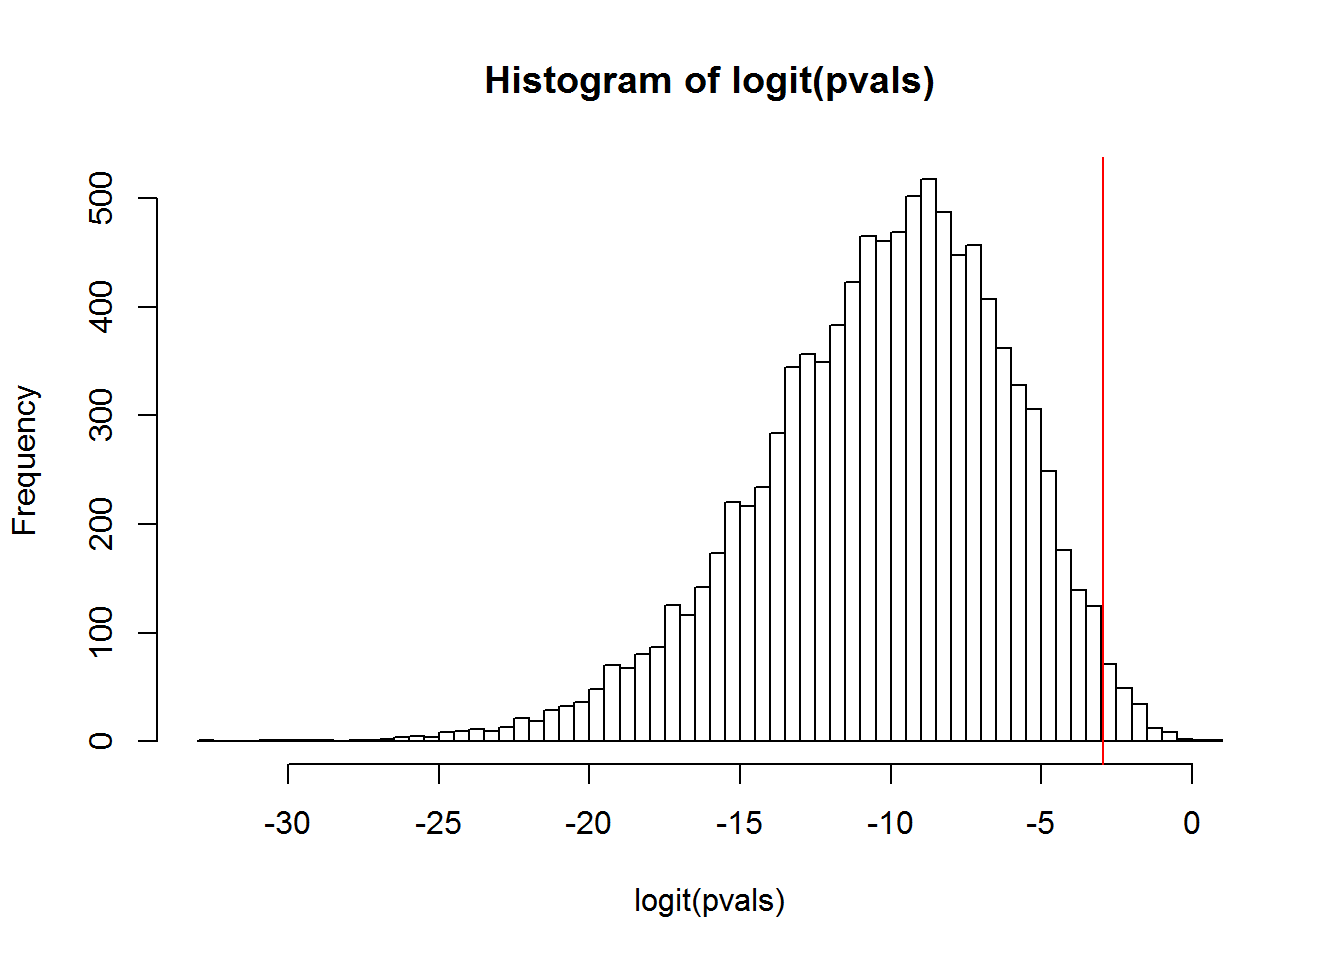
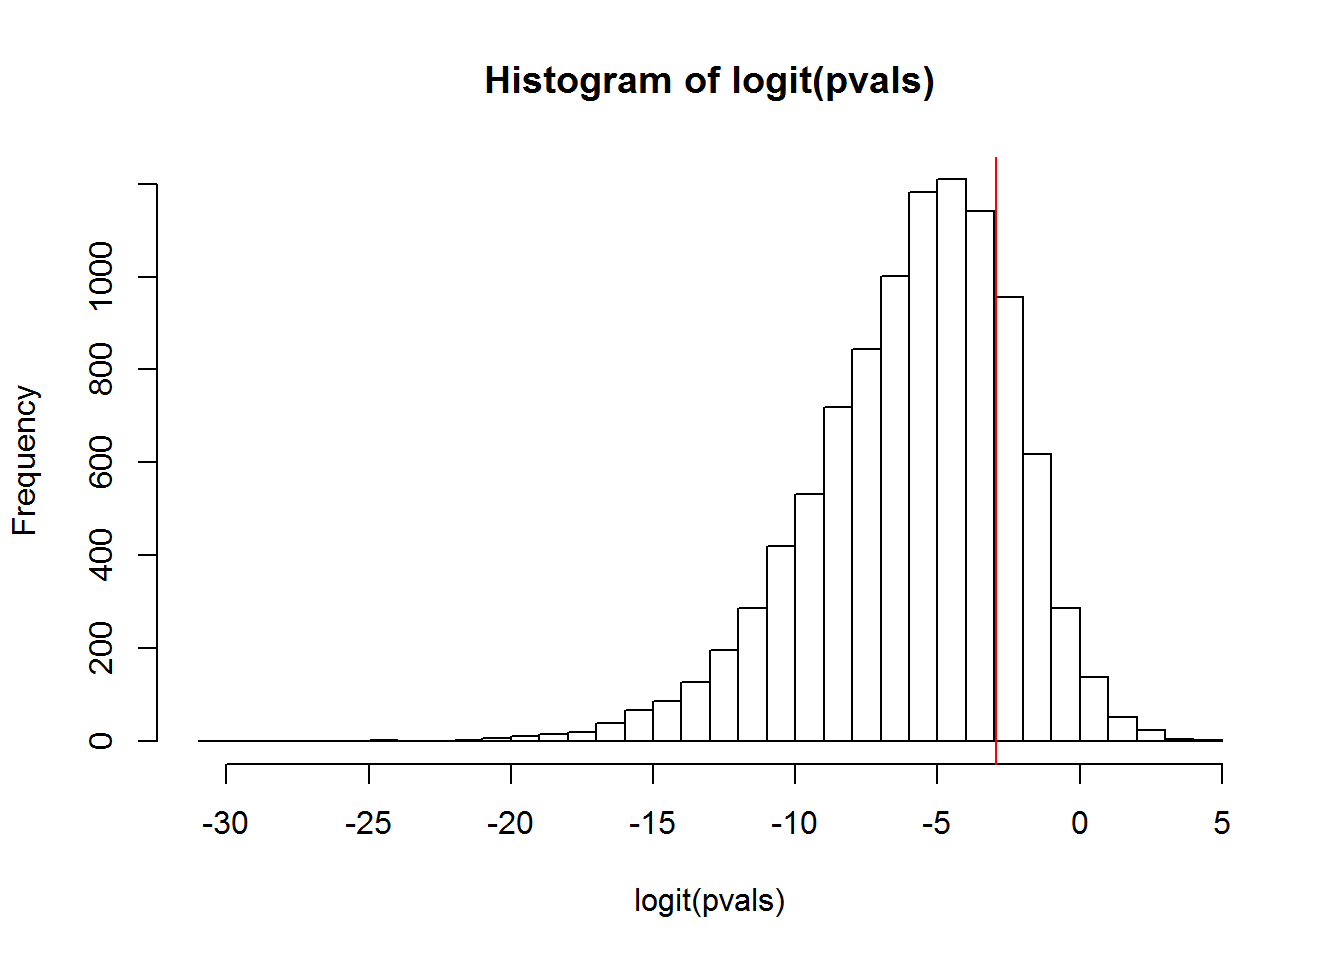
update power simulation

diff --git a/content/post/outcomespost.html b/content/post/outcomespost.html
@@ -110,27 +110,26 @@ summary(regression_model)</code></pre>
 
 logit &lt;- function(x){log(x/(1-x))}
 
-power_simulation &lt;- function(n_tutored = 50, n_untutored = 450, beta3, sigma_secondsession, beta0 = 58, beta1 = 0.9){
+power_simulation &lt;- function(n_tutored = 50, n_untutored = 450, tutoring_effect, sigma_secondsession, beta0 = 58, beta1 = 0.9, marks_sd = 12){
   nstudents &lt;- n_tutored + n_untutored 
   aptitude &lt;- sort(rnorm(nstudents, 0, 1))
-  aptitude_markscale &lt;- meanmark + aptitude*marks_sd
-  first_session &lt;- rnorm(nstudents, aptitude_markscale, 2)
-  second_session &lt;- beta0 + beta1*aptitude*marks_sd + rnorm(nstudents, 0, sigma_secondsession)
+  students &lt;- data.frame(aptitude)
+  students$first_session &lt;- rnorm(nstudents, students$aptitude*marks_sd + 60, 2)
+  students &lt;- students[order(students$first_session),]
   tutored.indices &lt;- sample(seq(1,n_tutored*2), n_tutored)
   tutored &lt;- rep(0, nstudents)
   tutored[tutored.indices] &lt;- 1
-  #second_session &lt;- second_session[order(first_session)]
-  second_session[tutored.indices] &lt;- second_session[tutored.indices] + beta3
-  lmod &lt;- summary(lm(second_session ~ first_session + tutored))
-  return(lmod$coefficients[3,4]) #The pvalue for the beta3 estimate.
+  students$tutored &lt;- tutored
+  students$second_session &lt;- rnorm(nstudents, beta0 + beta1*aptitude*marks_sd + tutoring_effect*students$tutored, sigma_secondsession)
+  lmod &lt;- summary(lm(second_session ~ first_session + tutored, data = students))
+  return(lmod$coefficients[3,4]) #The pvalue for the tutoring_effect estimate.
 }
 
-
-pvals &lt;- replicate(10000, power_simulation(n_tutored = 50, n_untutored = 450, beta3 = 2.4, sigma_secondsession = 2))
+pvals &lt;- replicate(10000, power_simulation(n_tutored = 50, n_untutored = 450, tutoring_effect = 1, sigma_secondsession = 2))
 
 mean(pvals &lt;= 0.05)</code></pre>
-<pre><code>## [1] 0.9835</code></pre>
-<p>So, we have a calculated power of 1. It is also interesting to look at the distribution of these p-values, in the logit scale.</p>
+<pre><code>## [1] 0.7993</code></pre>
+<p>So, we have a calculated power of 0.8 for an effect of +1 mark. It is also interesting to look at the distribution of these p-values, in the logit scale.</p>
 <pre class="r"><code>hist(logit(pvals),breaks = 50)
 abline(v = logit(0.05), col = &quot;red&quot;) #The vertical line is at p = 0.05</code></pre>
 <p><img src="/post/outcomespost_files/figure-html/unnamed-chunk-9-1.png" width="672" /></p>

diff --git a/public/post/outcomespost/index.html b/public/post/outcomespost/index.html
@@ -384,27 +384,26 @@ summary(regression_model)</code></pre>
 
 logit &lt;- function(x){log(x/(1-x))}
 
-power_simulation &lt;- function(n_tutored = 50, n_untutored = 450, beta3, sigma_secondsession, beta0 = 58, beta1 = 0.9){
+power_simulation &lt;- function(n_tutored = 50, n_untutored = 450, tutoring_effect, sigma_secondsession, beta0 = 58, beta1 = 0.9, marks_sd = 12){
   nstudents &lt;- n_tutored + n_untutored 
   aptitude &lt;- sort(rnorm(nstudents, 0, 1))
-  aptitude_markscale &lt;- meanmark + aptitude*marks_sd
-  first_session &lt;- rnorm(nstudents, aptitude_markscale, 2)
-  second_session &lt;- beta0 + beta1*aptitude*marks_sd + rnorm(nstudents, 0, sigma_secondsession)
+  students &lt;- data.frame(aptitude)
+  students$first_session &lt;- rnorm(nstudents, students$aptitude*marks_sd + 60, 2)
+  students &lt;- students[order(students$first_session),]
   tutored.indices &lt;- sample(seq(1,n_tutored*2), n_tutored)
   tutored &lt;- rep(0, nstudents)
   tutored[tutored.indices] &lt;- 1
-  #second_session &lt;- second_session[order(first_session)]
-  second_session[tutored.indices] &lt;- second_session[tutored.indices] + beta3
-  lmod &lt;- summary(lm(second_session ~ first_session + tutored))
-  return(lmod$coefficients[3,4]) #The pvalue for the beta3 estimate.
+  students$tutored &lt;- tutored
+  students$second_session &lt;- rnorm(nstudents, beta0 + beta1*aptitude*marks_sd + tutoring_effect*students$tutored, sigma_secondsession)
+  lmod &lt;- summary(lm(second_session ~ first_session + tutored, data = students))
+  return(lmod$coefficients[3,4]) #The pvalue for the tutoring_effect estimate.
 }
 
-
-pvals &lt;- replicate(10000, power_simulation(n_tutored = 50, n_untutored = 450, beta3 = 2.4, sigma_secondsession = 2))
+pvals &lt;- replicate(10000, power_simulation(n_tutored = 50, n_untutored = 450, tutoring_effect = 1, sigma_secondsession = 2))
 
 mean(pvals &lt;= 0.05)</code></pre>
-<pre><code>## [1] 0.9835</code></pre>
-<p>So, we have a calculated power of 1. It is also interesting to look at the distribution of these p-values, in the logit scale.</p>
+<pre><code>## [1] 0.7993</code></pre>
+<p>So, we have a calculated power of 0.8 for an effect of +1 mark. It is also interesting to look at the distribution of these p-values, in the logit scale.</p>
 <pre class="r"><code>hist(logit(pvals),breaks = 50)
 abline(v = logit(0.05), col = &quot;red&quot;) #The vertical line is at p = 0.05</code></pre>
 <p><img src="/post/outcomespost_files/figure-html/unnamed-chunk-9-1.png" width="672" /></p>
